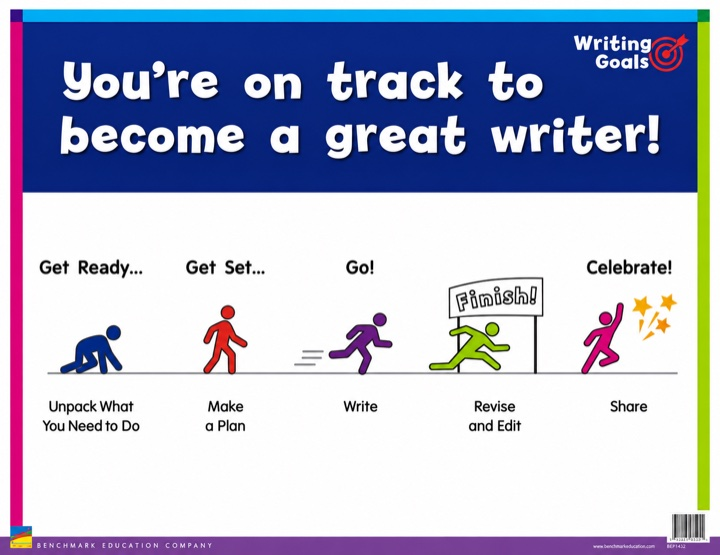
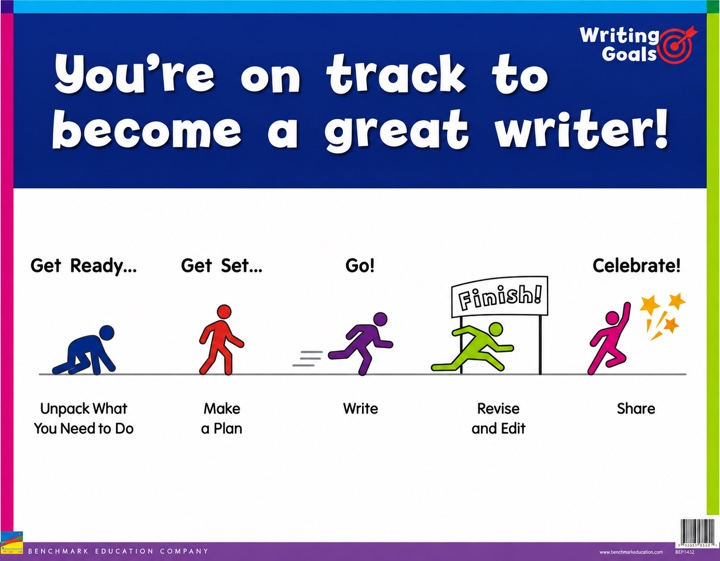
Frame the Start Here thumb as a card with the image edge to edge
Crop the white margin off the Writing Goals image so it fills the card,
which uses the same border and radius as the material thumbs.

diff --git a/write-to-build-understanding-pilot-support/css/styles.css b/write-to-build-understanding-pilot-support/css/styles.css
@@ -198,15 +198,21 @@ button:focus-visible {
   max-width: 100%;
   scroll-margin-top: calc(var(--header-height) + 24px);
 }
-/* Image only, no card frame */
+/* Card frame like the material thumbs, image filling it edge to edge */
 .ps-hero-guide-img {
   display: block;
   width: 100%;
   height: auto;
-  transition: box-shadow 0.15s ease;
+  border: 1px solid var(--trs-neutrals-gray-4);
+  border-radius: 8px;
+  background: #fff;
+  transition: border-color 0.15s ease, box-shadow 0.15s ease;
 }
 .ps-hero-guide-link:hover .ps-hero-guide-img,
-.ps-hero-guide-link:focus-visible .ps-hero-guide-img { box-shadow: var(--shadow-delicate); }
+.ps-hero-guide-link:focus-visible .ps-hero-guide-img {
+  border-color: var(--brand-benchmark);
+  box-shadow: var(--shadow-delicate);
+}
 
 .ps-hero-media {
   flex: 0 1 705px;

diff --git a/write-to-build-understanding-pilot-support/index.html b/write-to-build-understanding-pilot-support/index.html
@@ -70,7 +70,7 @@
 
           <div class="ps-hero-guide" id="start-here">
             <a class="resource-card ps-hero-guide-link" href="assets/X332947_WritingMaterialsRefGuide.pdf" target="_blank" rel="noopener noreferrer">
-              <img class="ps-hero-guide-img" src="images/thumb-writing-goals.jpg" alt="" width="720" height="555">
+              <img class="ps-hero-guide-img" src="images/thumb-writing-goals.jpg" alt="" width="720" height="561">
               <span class="resource-label">Start Here<span class="visually-hidden"> – Pilot Support Materials Guide</span></span>
             </a>
           </div>
